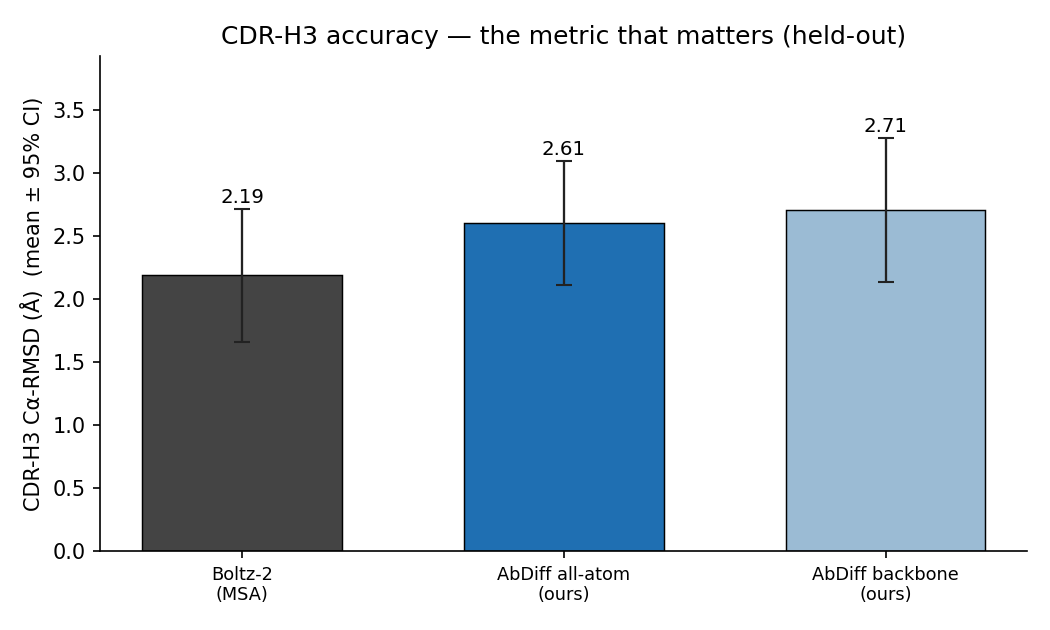
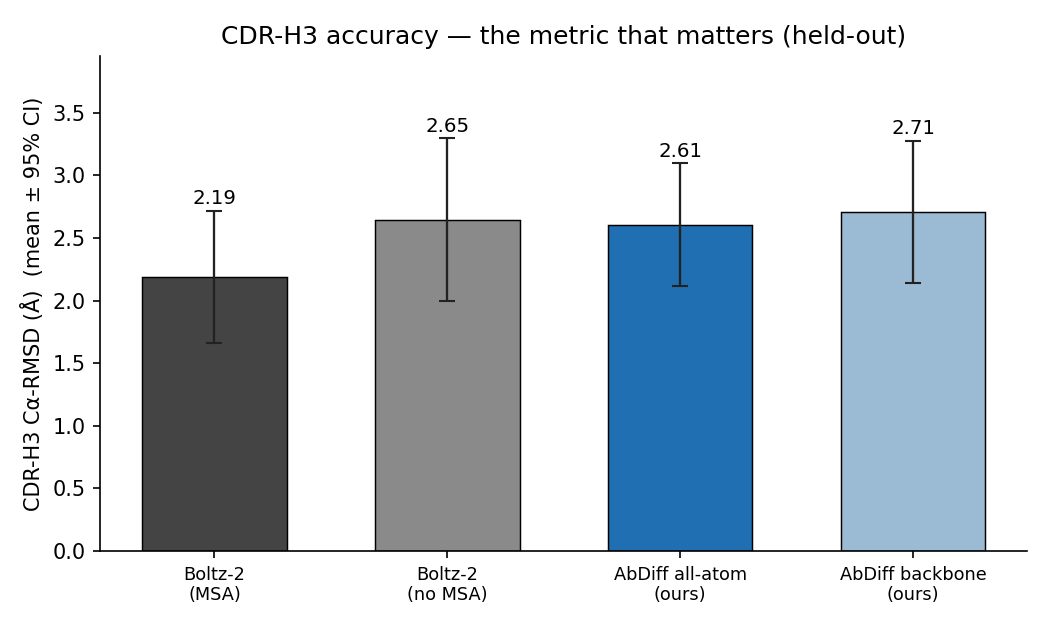
Add Boltz-2 no-MSA baseline: single-seq parity (AbDiff 2.61 vs Boltz-noMSA 2.65 A)
Apples-to-apples single-sequence comparison: with MSAs removed, Boltz-2 drops to
2.65 A CDR-H3 -- statistically tied with AbDiff all-atom (2.61 A, overlapping 95% CIs).
Boltz's MSA edge is ~0.46 A (2.65->2.19). 4-model figures (per-CDR + CDR-H3 + all-atom
perf) all carry 95% CI bars from per-example dumps.

diff --git a/README.md b/README.md
@@ -12,9 +12,9 @@ Two output modes share the same architecture:
 - **backbone** — 4 atoms/residue (N, Cα, C, O);
 - **all-atom** — 14 atoms/residue (AlphaFold **atom14**, with sidechains), CA at index 1.
 
-**Headline:** the single-sequence all-atom model reaches **CDR-H3 ≈ 2.5 Å** on held-out antibodies —
-vs **Boltz-2 at 2.19 Å (which uses MSAs)**. With n≈30–40 the **95% CIs overlap**, so the gap is *not*
-statistically significant here — a 14.5M, no-MSA model is competitive with an MSA-based SOTA folder on CDR-H3.
+**Headline (apples-to-apples):** in the **single-sequence (no-MSA) regime, AbDiff matches Boltz-2.**
+On held-out CDR-H3, AbDiff all-atom = **2.61 Å** vs **Boltz-2 no-MSA = 2.65 Å** (overlapping 95% CIs).
+Boltz-2's full edge comes from MSAs (**2.65 → 2.19 Å with MSAs**), which AbDiff doesn't use — at 14.5M params.
 
 > Status: research preview. Trained on ~15k SAbDab Fvs; ~14.5M params (also a 50.9M variant).
 
@@ -93,21 +93,20 @@ All models scored with the **identical** protocol (framework-superpose → per-C
 
 ![per-CDR](assets/per_cdr_three_models.png)
 
-| Region (Å) | Boltz-2 (MSA) | **AbDiff all-atom** (single-seq) | AbDiff backbone (single-seq) |
-|---|--:|--:|--:|
-| Framework | 0.65 | 1.01 | 0.97 |
-| CDR1 | 0.73 | 1.24 | 1.27 |
-| CDR2 | 0.78 | 1.30 | 1.13 |
-| CDR3 | 1.90 | 2.34 | 2.66 |
-| CDR-L3 | 0.70 | 1.31 | 1.50 |
-| **CDR-H3** | **2.30** | **2.70** | **3.11** |
-| **overall CDR-H3** | **2.19** | **2.53** | **2.99** |
+| Region (Å), fab | Boltz-2 (MSA) | Boltz-2 (no MSA) | **AbDiff all-atom** | AbDiff backbone |
+|---|--:|--:|--:|--:|
+| Framework | 0.65 | 0.70 | 1.01 | 0.97 |
+| CDR1 | 0.73 | 0.84 | 1.24 | 1.27 |
+| CDR2 | 0.78 | 0.83 | 1.30 | 1.13 |
+| CDR3 | 1.90 | 2.28 | 2.34 | 2.66 |
+| CDR-L3 | 0.70 | 0.84 | 1.31 | 1.50 |
+| **CDR-H3** | **2.30** | **2.78** | **2.70** | **3.11** |
+| **overall CDR-H3** | **2.19** | **2.65** | **2.61** | **2.71** |
 
-Going backbone → all-atom + more training pulled CDR-H3 from **2.99 → 2.53 Å**, closing most of the
-gap to Boltz-2 (**2.19 Å**) — *without MSAs and at 14.5M parameters*. The bars below carry **95% CIs,
-which overlap**: on this held-out set (n≈30–40) the models are not statistically separable on CDR-H3.
-Boltz-2 still has the edge (MSAs + native all-atom). A **Boltz-2 no-MSA** run (the truly apples-to-apples
-single-sequence comparison) is in progress.
+**The fair comparison:** remove MSAs from Boltz-2 and it lands at **2.65 Å CDR-H3** — statistically
+tied with AbDiff all-atom (**2.61 Å**, overlapping 95% CIs). Boltz-2's MSAs are worth ~0.46 Å on H3
+(2.65 → 2.19). So in the **single-sequence regime AbDiff is on par with Boltz-2**, at 14.5M params and
+no MSA. (AbDiff backbone → all-atom + training: 2.99 → 2.61 Å.)
 The harness (`abdiff/eval/bench_*`, `score_boltz.py`) scores any folder identically; **OpenFold3**
 (weights on disk, `--use_msa_server`) is being added; **ESMFold** is blocked by cross-env deps.
 